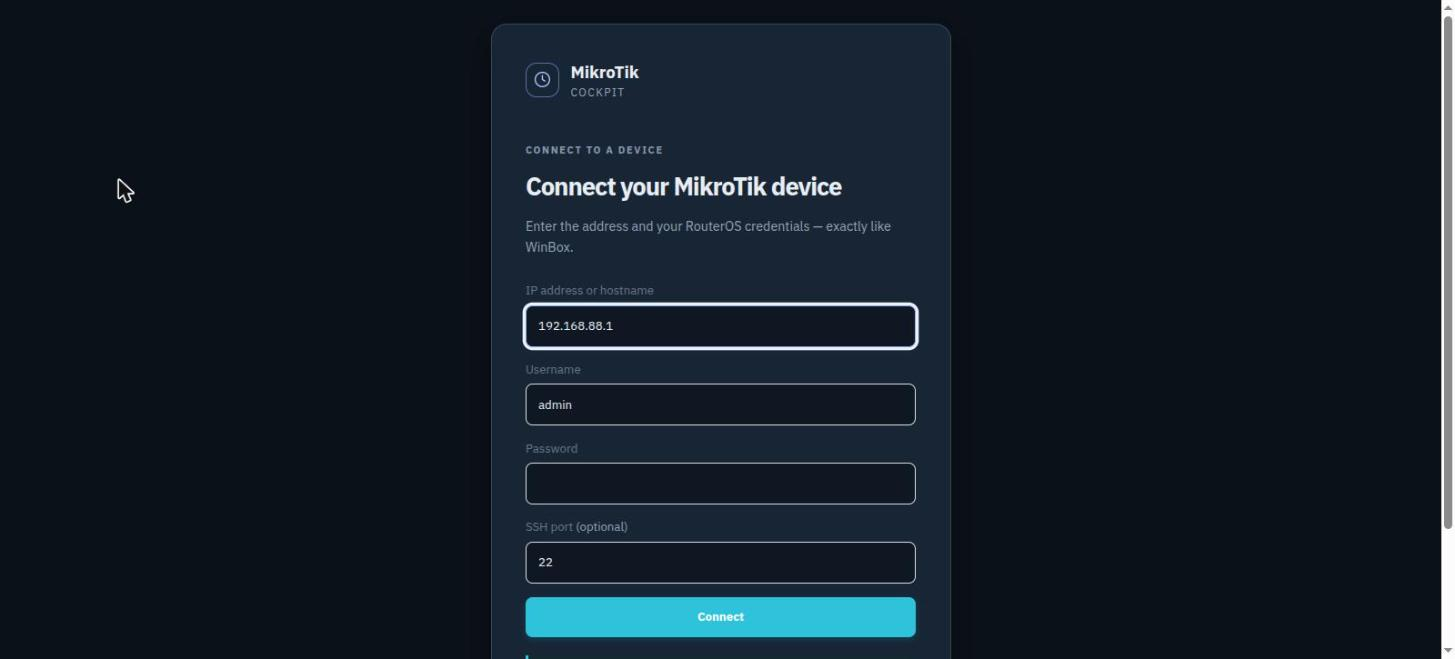
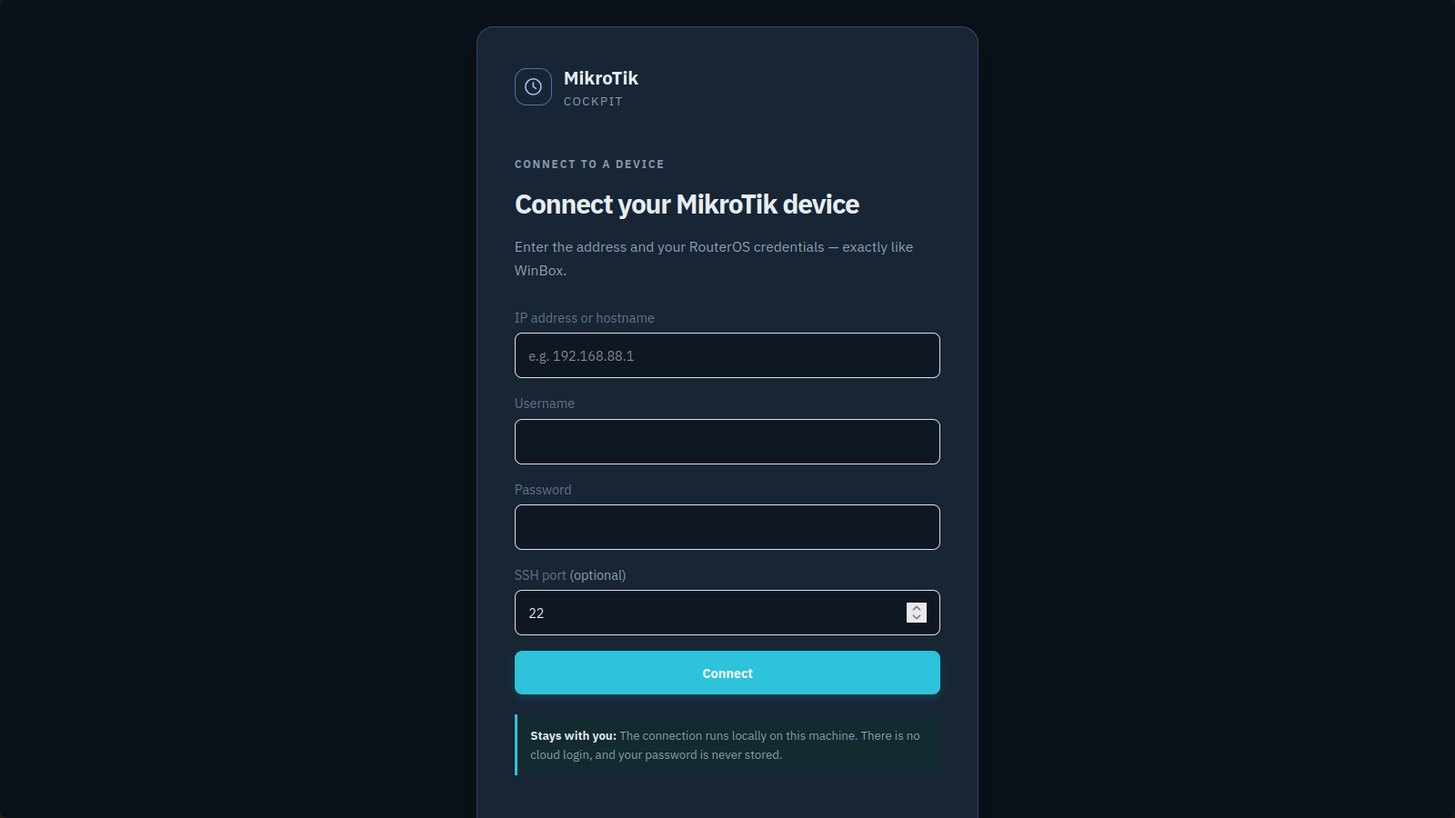
Fresh screenshots: the device bar, and the fleet page
The old shots predate multi-device support, so the device bar was missing
from all of them. New ones taken live against two real routers side by
side (hAP ac Lite and wAP ax) on an isolated test VLAN, plus a new shot of
the fleet page, marked as Pro.

Changed region(s): [[0.3093, 0.0303, 0.6804, 1.0], [0.9897, 0.0, 1.0, 1.0], [0.0619, 0.2731, 0.0928, 0.3035]]

diff --git a/README.md b/README.md
@@ -20,13 +20,21 @@
 |---|---|---|---|
 | ![screenshot-connect](screenshots/connect.jpg) | ![screenshot-dashboard](screenshots/dashboard.jpg) | ![screenshot-wifi](screenshots/wifi.jpg) | ![screenshot-security](screenshots/security.jpg) |
 
-*Taken live against a MikroTik hAP ac Lite on an isolated test VLAN — which is why it reports no
-internet and no connected devices. Nothing here is mocked up; only the network names were replaced
-with neutral ones before publishing.*
+*Taken live against two real devices — a MikroTik hAP ac Lite and a wAP ax — on an isolated test
+VLAN, which is why they report no internet and no connected devices. Nothing here is mocked up;
+only the Wi-Fi network names were replaced with neutral ones before publishing.*
 
 ![demo](screenshots/demo.gif)
 
 60-second walkthrough on YouTube (German voice-over, English UI available in the app): https://www.youtube.com/watch?v=eTpmH4RkWiM
+
+### The fleet page (Pro)
+
+![screenshot-fleet](screenshots/fleet.jpg)
+
+*Every connected device in one table: RouterOS version, uptime, load, DHCP clients and security
+score, collected in a single request. The versions sit underneath each other so an odd one out
+stands out, and clicking a row switches to that device. This page is part of Cockpit Pro.*
 
 ### Free vs. Pro at a glance
 
